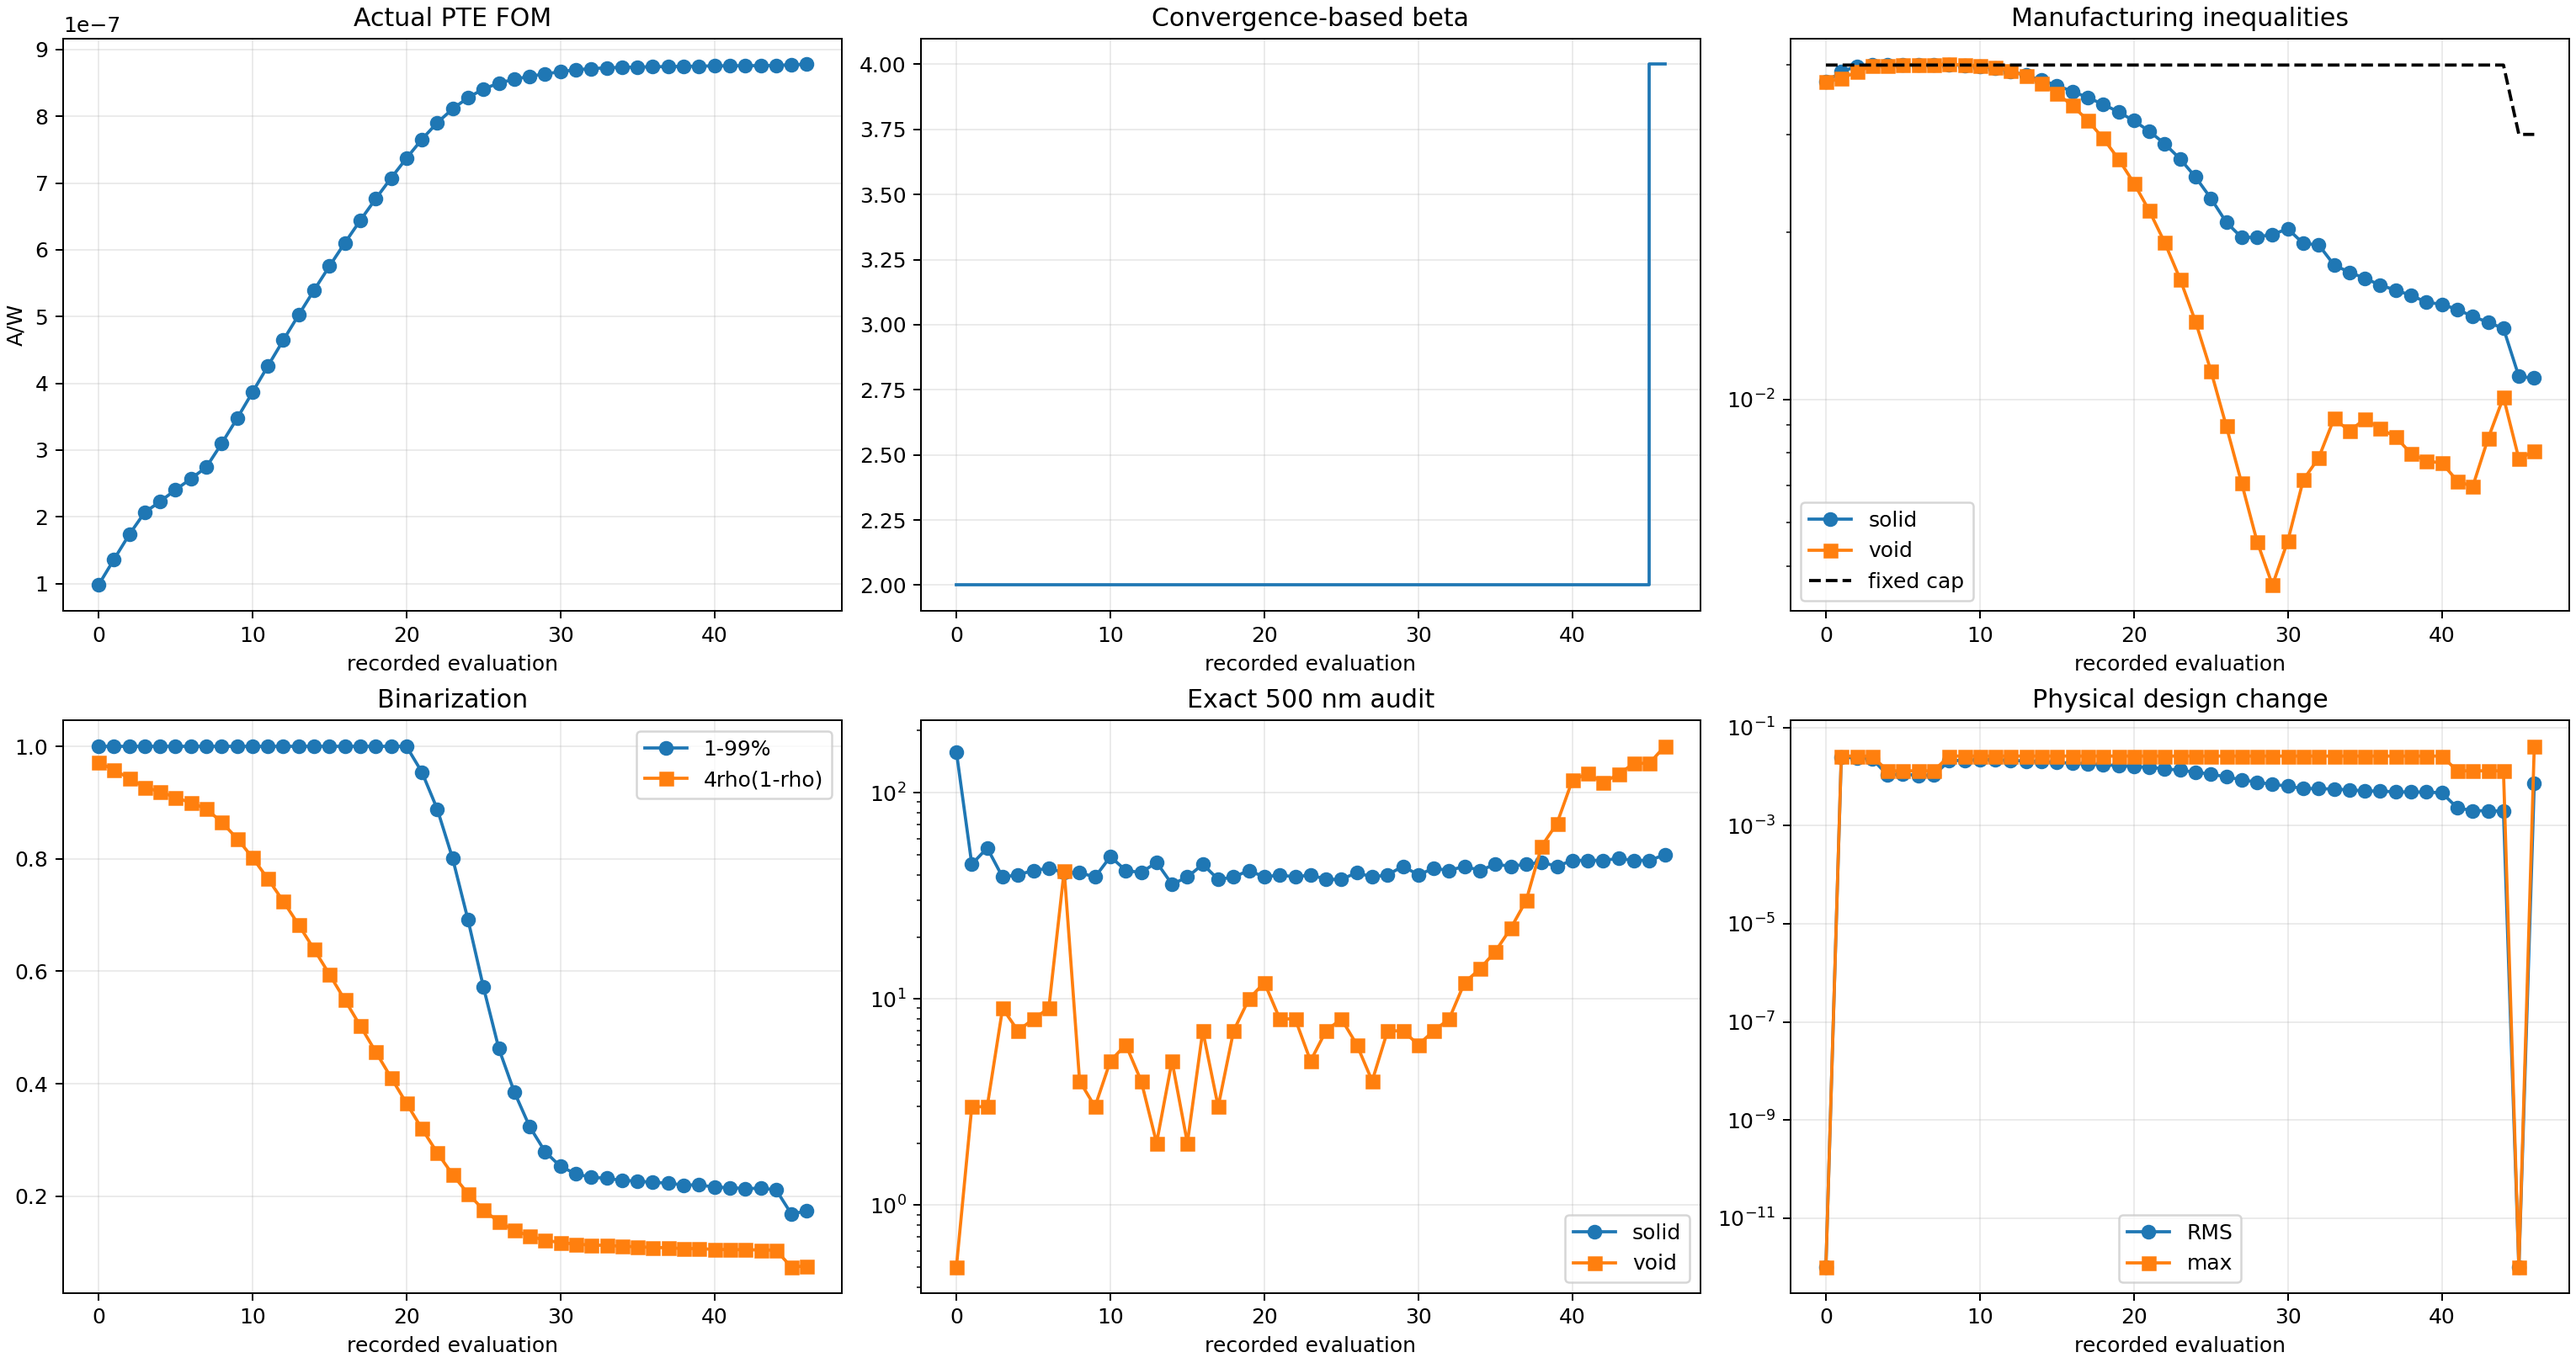
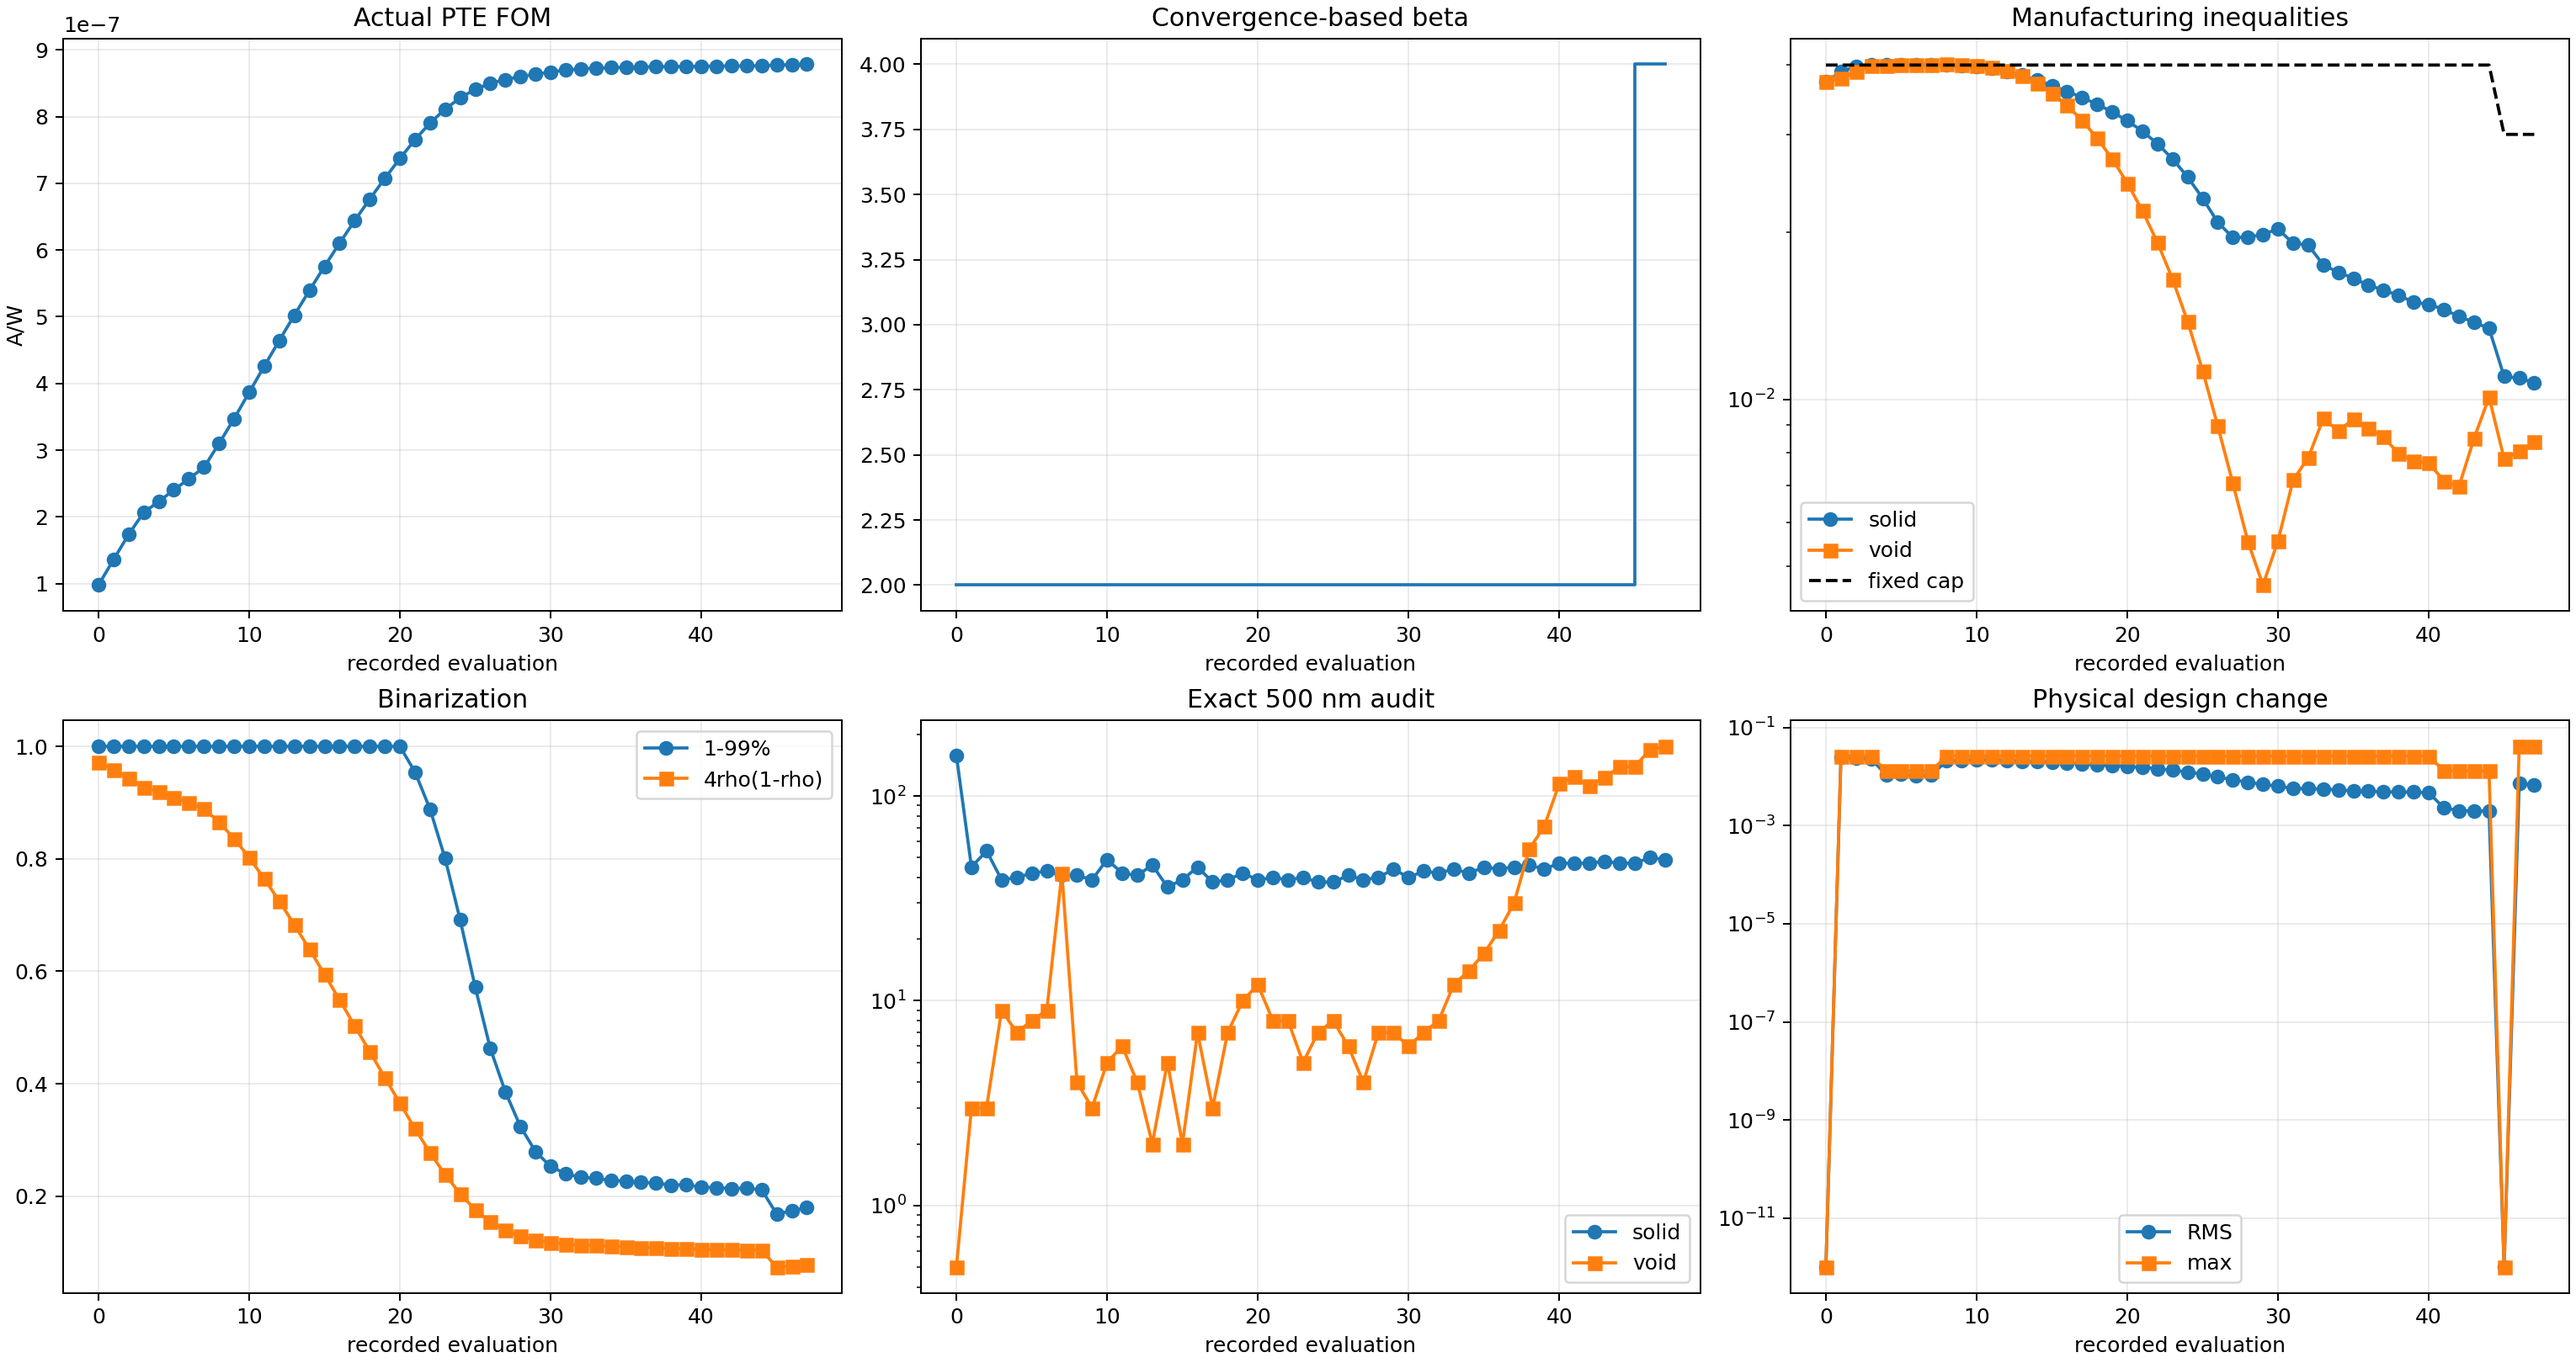
Record Run 003 run003_b004_s002_g046_accepted_mma

diff --git a/photothermal_pte/optimization_runs/run_003_gaussian10_w8p5_current_max_converged/results/OPTIMIZATION_REPORT.md b/photothermal_pte/optimization_runs/run_003_gaussian10_w8p5_current_max_converged/results/OPTIMIZATION_REPORT.md
@@ -2,10 +2,10 @@
 
 Status: `RUNNING_CONVERGENCE_BASED_CONSTRAINED_BETA_CONTINUATION`
 
-Current stage: beta=4, accepted stage iteration=1, global iteration=45.
+Current stage: beta=4, accepted stage iteration=2, global iteration=46.
 
-Actual FOM: `8.778630109262e-07 A/W`. Fixed-cap solid/void constraints: `1.091200e-02` / `8.055090e-03` with cap `3.000000e-02`.
+Actual FOM: `8.783316545456e-07 A/W`. Fixed-cap solid/void constraints: `1.071079e-02` / `8.388522e-03` with cap `3.000000e-02`.
 
-Exact 500 nm bad cells: solid `50`, void `168`. Stage convergence: `False` (need at least 8 accepted updates).
+Exact 500 nm bad cells: solid `49`, void `175`. Stage convergence: `False` (need at least 8 accepted updates).
 
 Beta is promoted only after fixed-inequality feasibility and a four-update FOM/design plateau; it is never promoted after one nominal update.
